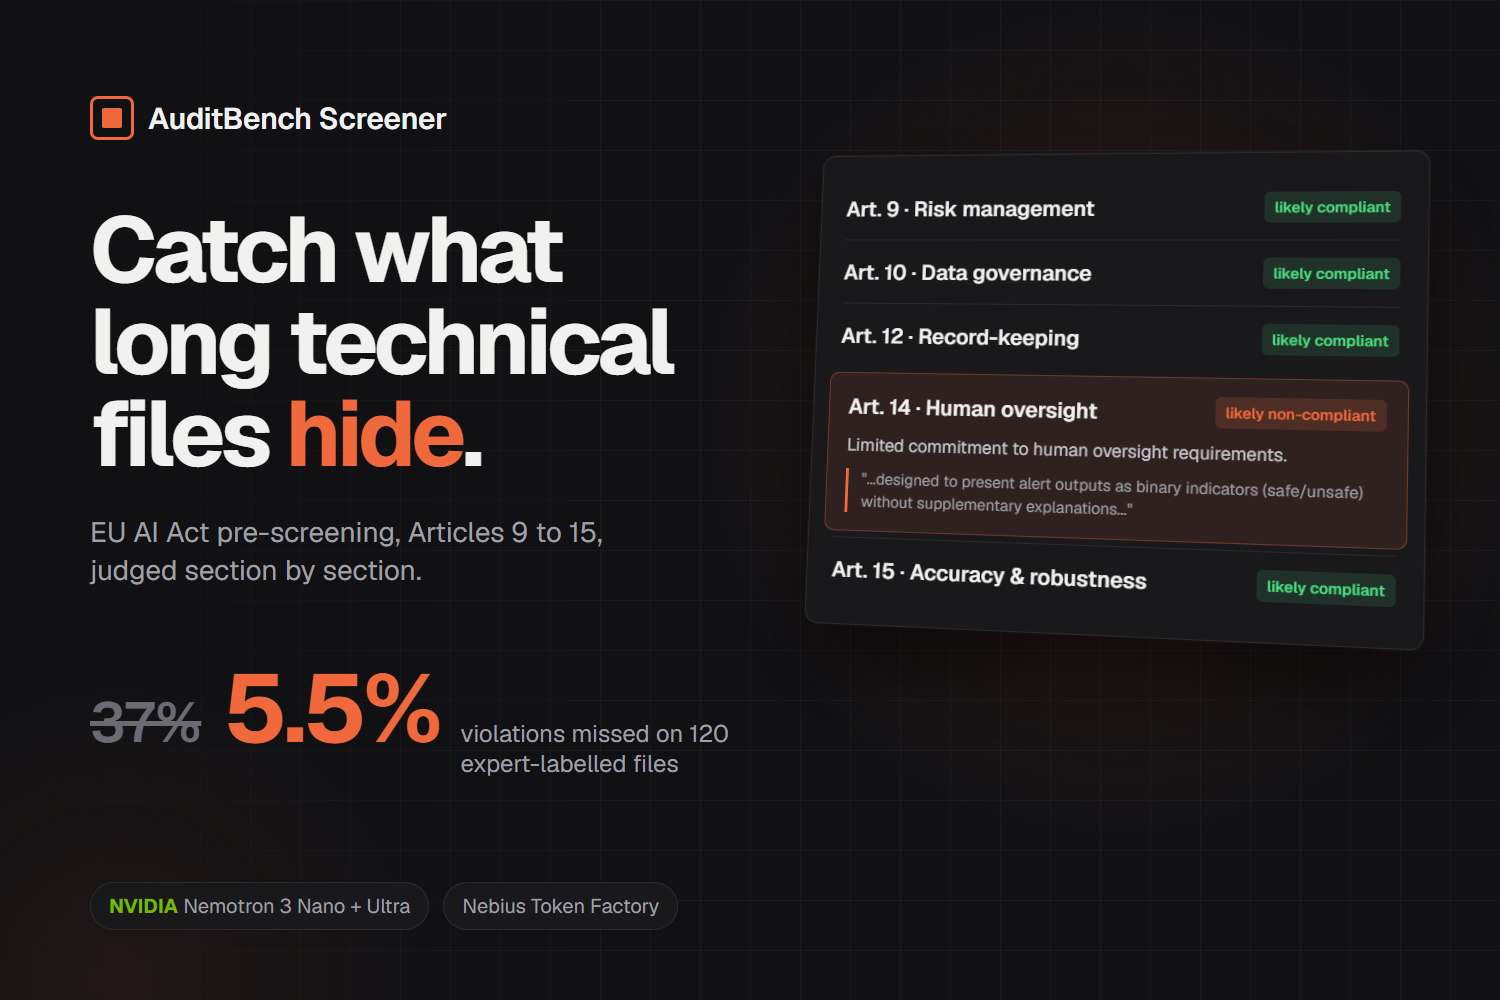
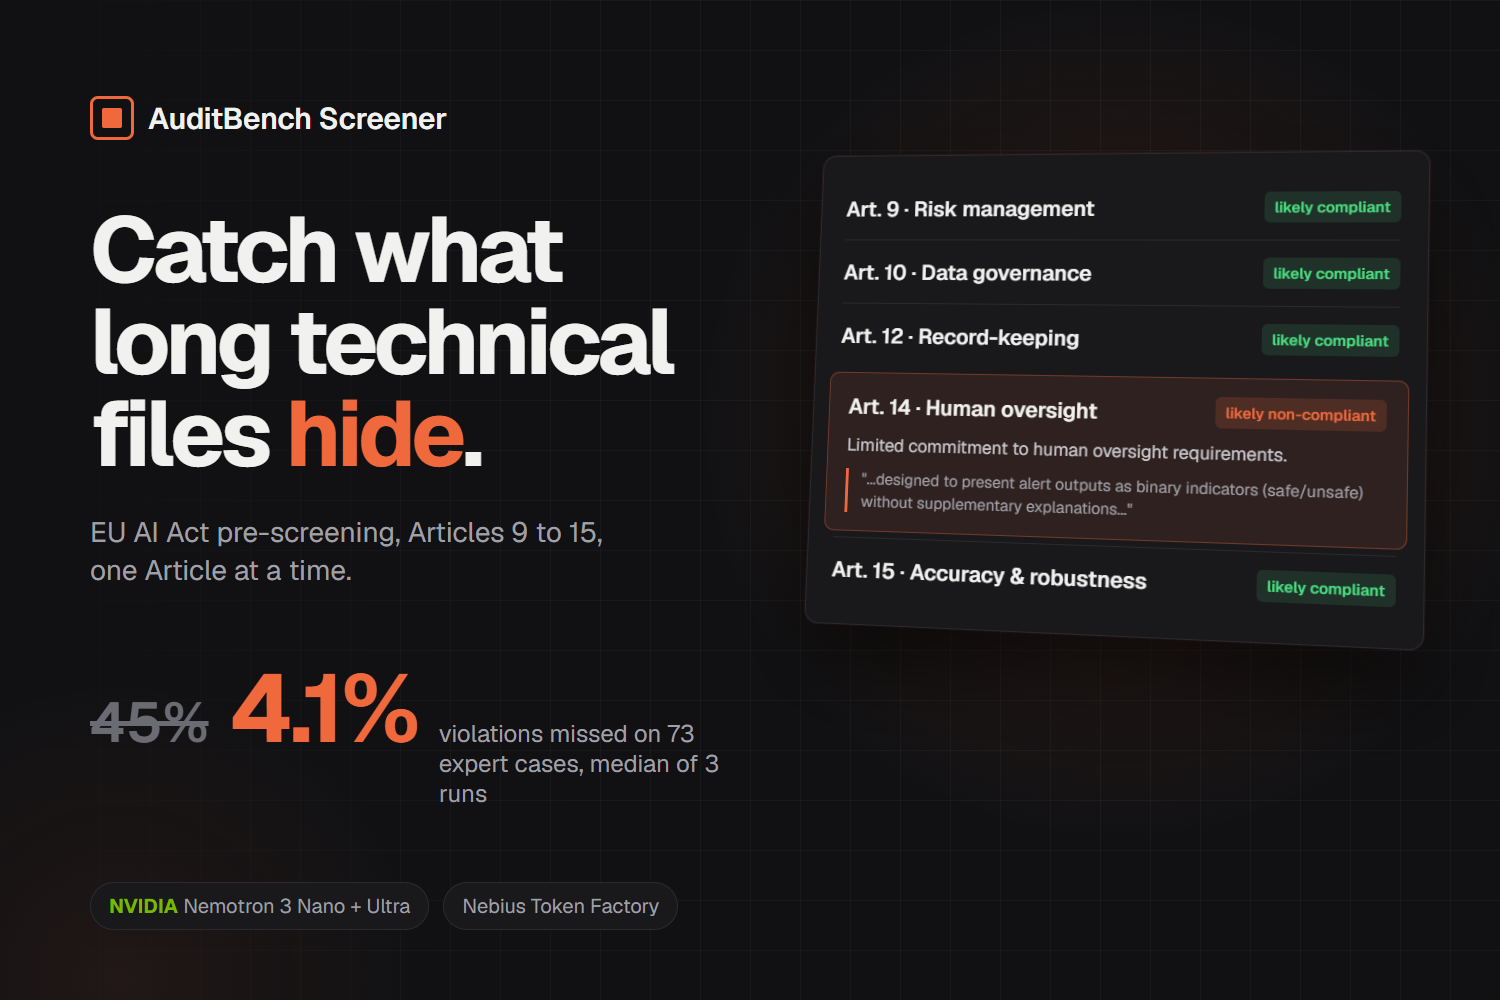
Site and README: match v2 results; segmenter opt-in, off in the live app
Landing copy now states the Ultra tie, the prompt (not splitting) as the
driver, and the pre-registered re-test. Thumbnail uses median-of-3 numbers.

Changed region(s): [[0.0613, 0.651, 0.4907, 0.806], [0.0613, 0.558, 0.276, 0.589]]

diff --git a/screener/static/index.html b/screener/static/index.html
@@ -4,7 +4,7 @@
 <meta charset="utf-8">
 <meta name="viewport" content="width=device-width, initial-scale=1">
 <title>AuditBench Screener</title>
-<meta name="description" content="Screen AI-system technical documentation against EU AI Act Articles 9 to 15, section by section, with NVIDIA Nemotron on Nebius Token Factory.">
+<meta name="description" content="Screen AI-system technical documentation against EU AI Act Articles 9 to 15, one Article at a time, with NVIDIA Nemotron on Nebius Token Factory.">
 <meta property="og:title" content="AuditBench Screener">
 <meta property="og:description" content="Catch the violation a long technical file hides. EU AI Act pre-screening with NVIDIA Nemotron on Nebius.">
 
@@ -191,7 +191,7 @@ footer .wrap{display:flex;justify-content:space-between;gap:24px;flex-wrap:wrap}
     <div class="wrap grid">
       <div>
         <h1>Catch what long technical files <em>hide</em>.</h1>
-        <p>EU AI Act pre-screening for Articles 9 to 15, section by section, with NVIDIA Nemotron on Nebius.</p>
+        <p>EU AI Act pre-screening for Articles 9 to 15, one Article at a time, with NVIDIA Nemotron on Nebius.</p>
         <div class="ctas">
           <a class="btn primary" href="#screen"><i class="ph ph-arrow-down"></i>Screen a file</a>
           <a class="btn" href="https://github.com/Rcidshacker/auditbench/blob/main/REPORT.md"><i class="ph ph-book-open"></i>Read the study</a>
@@ -207,16 +207,16 @@ footer .wrap{display:flex;justify-content:space-between;gap:24px;flex-wrap:wrap}
   <section class="evidence" aria-label="Results">
     <div class="wrap grid">
       <div class="stat reveal">
-        <div class="n"><s>37%</s><b>5.5%</b></div>
-        <p>Non-compliant documents falsely cleared when the violating section comes first in a full file. Whole-file Nemotron vs the Screener, 73 cases.</p>
+        <div class="n"><s>45%</s><b>4.1%</b></div>
+        <p>Violations falsely cleared when the violating section comes first in a five-section file. Whole-file Nemotron 3 Nano vs the Screener, 73 cases, median of three runs.</p>
       </div>
       <div class="stat reveal">
-        <div class="n">0.769</div>
-        <p>Agreement with three legal experts (weighted kappa), up from 0.347 for a single whole-file call.</p>
+        <div class="n">6.8%</div>
+        <p>Cleared by one whole-file Nemotron 3 Ultra call: a statistical tie with the Screener, which wrongly rejects more compliant files (15% vs 6%).</p>
       </div>
       <div class="stat reveal">
-        <div class="n">120</div>
-        <p>Expert-labelled documents from AIReg-Bench, all run on Nebius Token Factory.</p>
+        <div class="n">1,560</div>
+        <p>Scored runs in a pre-registered re-test on 120 expert-labelled AIReg-Bench files: held-out split, three repeats, bootstrap CIs.</p>
       </div>
     </div>
   </section>
@@ -225,11 +225,11 @@ footer .wrap{display:flex;justify-content:space-between;gap:24px;flex-wrap:wrap}
     <div class="wrap grid">
       <div class="lead">
         <h2>Built from what broke</h2>
-        <p>We tested LLM auditors before building one. Each step below answers a failure we measured.</p>
+        <p>We tested LLM auditors before building one, then re-tested our own design under a protocol fixed in advance. Each step answers a failure we measured.</p>
       </div>
       <div class="steps">
-        <div class="step reveal"><i class="ph ph-columns"></i><div><h3>Split by Article</h3><p>Compliant sections after a violation dilute it. The file is cut at its Article headings and every section is judged on its own.</p></div></div>
-        <div class="step reveal"><i class="ph ph-stack"></i><div><h3>Sample three times</h3><p>Nemotron 3 Nano judges each section three times in parallel. A single sample can flip its verdict between identical runs; the median of three is steadier.</p></div></div>
+        <div class="step reveal"><i class="ph ph-crosshair"></i><div><h3>Judge one Article at a time</h3><p>With a generic prompt, compliant sections after a violation dilute it. The Screener asks about one named Article and counts a disclosed gap against compliance. Our re-test showed this prompt, not splitting the file, closes most of the gap.</p></div></div>
+        <div class="step reveal"><i class="ph ph-stack"></i><div><h3>Sample three times</h3><p>Nemotron 3 Nano judges each Article three times in parallel. A single sample flips between identical runs and over-rejects; the median of three cut false rejections from 23% to 13%.</p></div></div>
         <div class="step reveal"><i class="ph ph-arrow-fat-lines-up"></i><div><h3>Escalate disagreement</h3><p>When the samples disagree, Nemotron 3 Ultra decides. If Nano and Ultra still disagree, the Article goes to a human instead of a guess.</p></div></div>
         <div class="step reveal"><i class="ph ph-seal-warning"></i><div><h3>Flag claims, check quotes</h3><p>Notes to the reviewer and unsupported compliance claims are flagged and ignored. Evidence quotes are shown only if they appear in your text.</p></div></div>
       </div>
@@ -240,7 +240,7 @@ footer .wrap{display:flex;justify-content:space-between;gap:24px;flex-wrap:wrap}
     <div class="wrap">
       <div class="head">
         <h2>Screen a file</h2>
-        <p>Paste documentation with an "Article N" heading per section, or load an example. Takes about 10 to 20 seconds. A screening aid for reviewers, not legal advice.</p>
+        <p>Paste documentation, ideally with an "Article N" heading per section so evidence is easier to check, or load an example. Takes about 10 to 20 seconds. A screening aid for reviewers, not legal advice.</p>
       </div>
       <div class="panel">
         <div class="box">
@@ -276,7 +276,7 @@ footer .wrap{display:flex;justify-content:space-between;gap:24px;flex-wrap:wrap}
       <div class="bento">
         <div class="cell c1 reveal">
           <div class="k">3 of 3</div>
-          <div><h3>Long files fooled every judge we tried</h3><p>With the violating section first in a five-section file, the three whole-file judges we tested falsely cleared 9.6%, 15% and 37% of non-compliant documents. Placed last, the effect went away. This is why the Screener splits files.</p></div>
+          <div><h3>Long files fool a generic judge</h3><p>With the violating section first in a five-section file, whole-file judges using AIReg-Bench's prompt falsely cleared 9.6% to 52% of non-compliant documents. A targeted prompt brought that to 0 to 4%, with or without splitting the file.</p></div>
         </div>
         <div class="cell c2 reveal">
           <div class="k">0</div>
@@ -301,7 +301,7 @@ footer .wrap{display:flex;justify-content:space-between;gap:24px;flex-wrap:wrap}
         <div><i class="ph ph-scales"></i><span>Not legal advice or a conformity assessment. It helps a reviewer decide where to look.</span></div>
         <div><i class="ph ph-flask"></i><span>Evaluated on synthetic, expert-labelled excerpts. Real technical files are longer and messier.</span></div>
         <div><i class="ph ph-list-checks"></i><span>Covers Articles 9, 10, 12, 14 and 15 only, the core high-risk requirements.</span></div>
-        <div><i class="ph ph-user-focus"></i><span>Close calls are routed to human review on purpose, about one Article in five.</span></div>
+        <div><i class="ph ph-user-focus"></i><span>Not more accurate than one strong judge. A single Ultra call misses about as many violations; the Screener uses Nano and sends about one Article in eight to a person.</span></div>
       </div>
     </div>
   </section>

diff --git a/screener/engine.py b/screener/engine.py
@@ -181,11 +181,12 @@ def _safe(fn, *a):
         return None
 
 
-def screen(doc: str, outline: str = "", articles: list[int] | None = None) -> dict:
-    """Screen a technical file. Sections are found by Article headings, else by the segmenter; if both fail the
-    whole text is assessed against each requested Article (less reliable, reported as such)."""
+def screen(doc: str, outline: str = "", articles: list[int] | None = None, segment_headless: bool = False) -> dict:
+    """Screen a technical file. Sections are found by Article headings; without them the whole text is assessed
+    against each requested Article. The Ultra segmenter is opt-in: in the v2 re-test it did not reduce false
+    clearance (REPORT.md §1c), so the live app does not use it."""
     sections = split_sections(doc)
-    segmented = not sections
+    segmented = not sections and segment_headless
     if segmented:
         sections = _safe(segment, doc) or {}
     sectioned = bool(sections)
@@ -201,5 +202,6 @@ def screen(doc: str, outline: str = "", articles: list[int] | None = None) -> di
             "note": ("No Article headings found, so sections were assigned to Articles by the model. Check the split; "
                      "'Article N' headings give the most reliable result." if segmented and sectioned else
                      None if sectioned else
-                     "No Article sections could be found, so each Article was judged against the whole text. Our tests "
-                     "show long multi-section files hide violations; add 'Article N' headings for a reliable result.")}
+                     "No Article headings found, so each Article was judged against the whole text. In our re-test this "
+                     "was about as reliable as per-section judging; 'Article N' headings make the quoted evidence "
+                     "easier to check.")}

diff --git a/screener/regression.py b/screener/regression.py
@@ -41,7 +41,7 @@ def doc_for(it, cond: str) -> str:
 def check(case) -> dict:
     cid, iid, cond, expect = case
     it = ITEMS[iid]
-    r = screen(doc_for(it, cond), it.system_outline, articles=[it.article])
+    r = screen(doc_for(it, cond), it.system_outline, articles=[it.article], segment_headless=True)
     v = r["articles"][0]["verdict"]
     caught = v in ("likely non-compliant", "needs human review")  # "no section found" is not a pass
     ok = {"not_cleared": caught,

diff --git a/README.md b/README.md
@@ -77,7 +77,7 @@ flowchart LR
 
 | Step | The failure it fixes |
 |---|---|
-| **Judge one Article at a time** | Whole-file judges with a generic prompt let compliant sections mask a violation. The v2 re-test shows a targeted prompt is what closes this; splitting by heading adds little (files without headings are split by Nemotron Ultra). |
+| **Judge one Article at a time** | Whole-file judges with a generic prompt let compliant sections mask a violation. The v2 re-test shows a targeted prompt is what closes this; splitting by heading adds little. Files without headings are judged as whole text (an Ultra segmenter exists, opt-in, and did not help). |
 | **Sample three times** | A single LLM sample can flip its verdict between identical runs. |
 | **Escalate to Ultra, then to a human** | Even three legal experts only partly agree (Krippendorff's α 0.657). Close calls go to a person instead of a guess. |
 | **Flag claims, check quotes** | Reviewer-addressed notes are flagged and ignored. Evidence quotes appear only if they occur (near-)verbatim in the document. |
